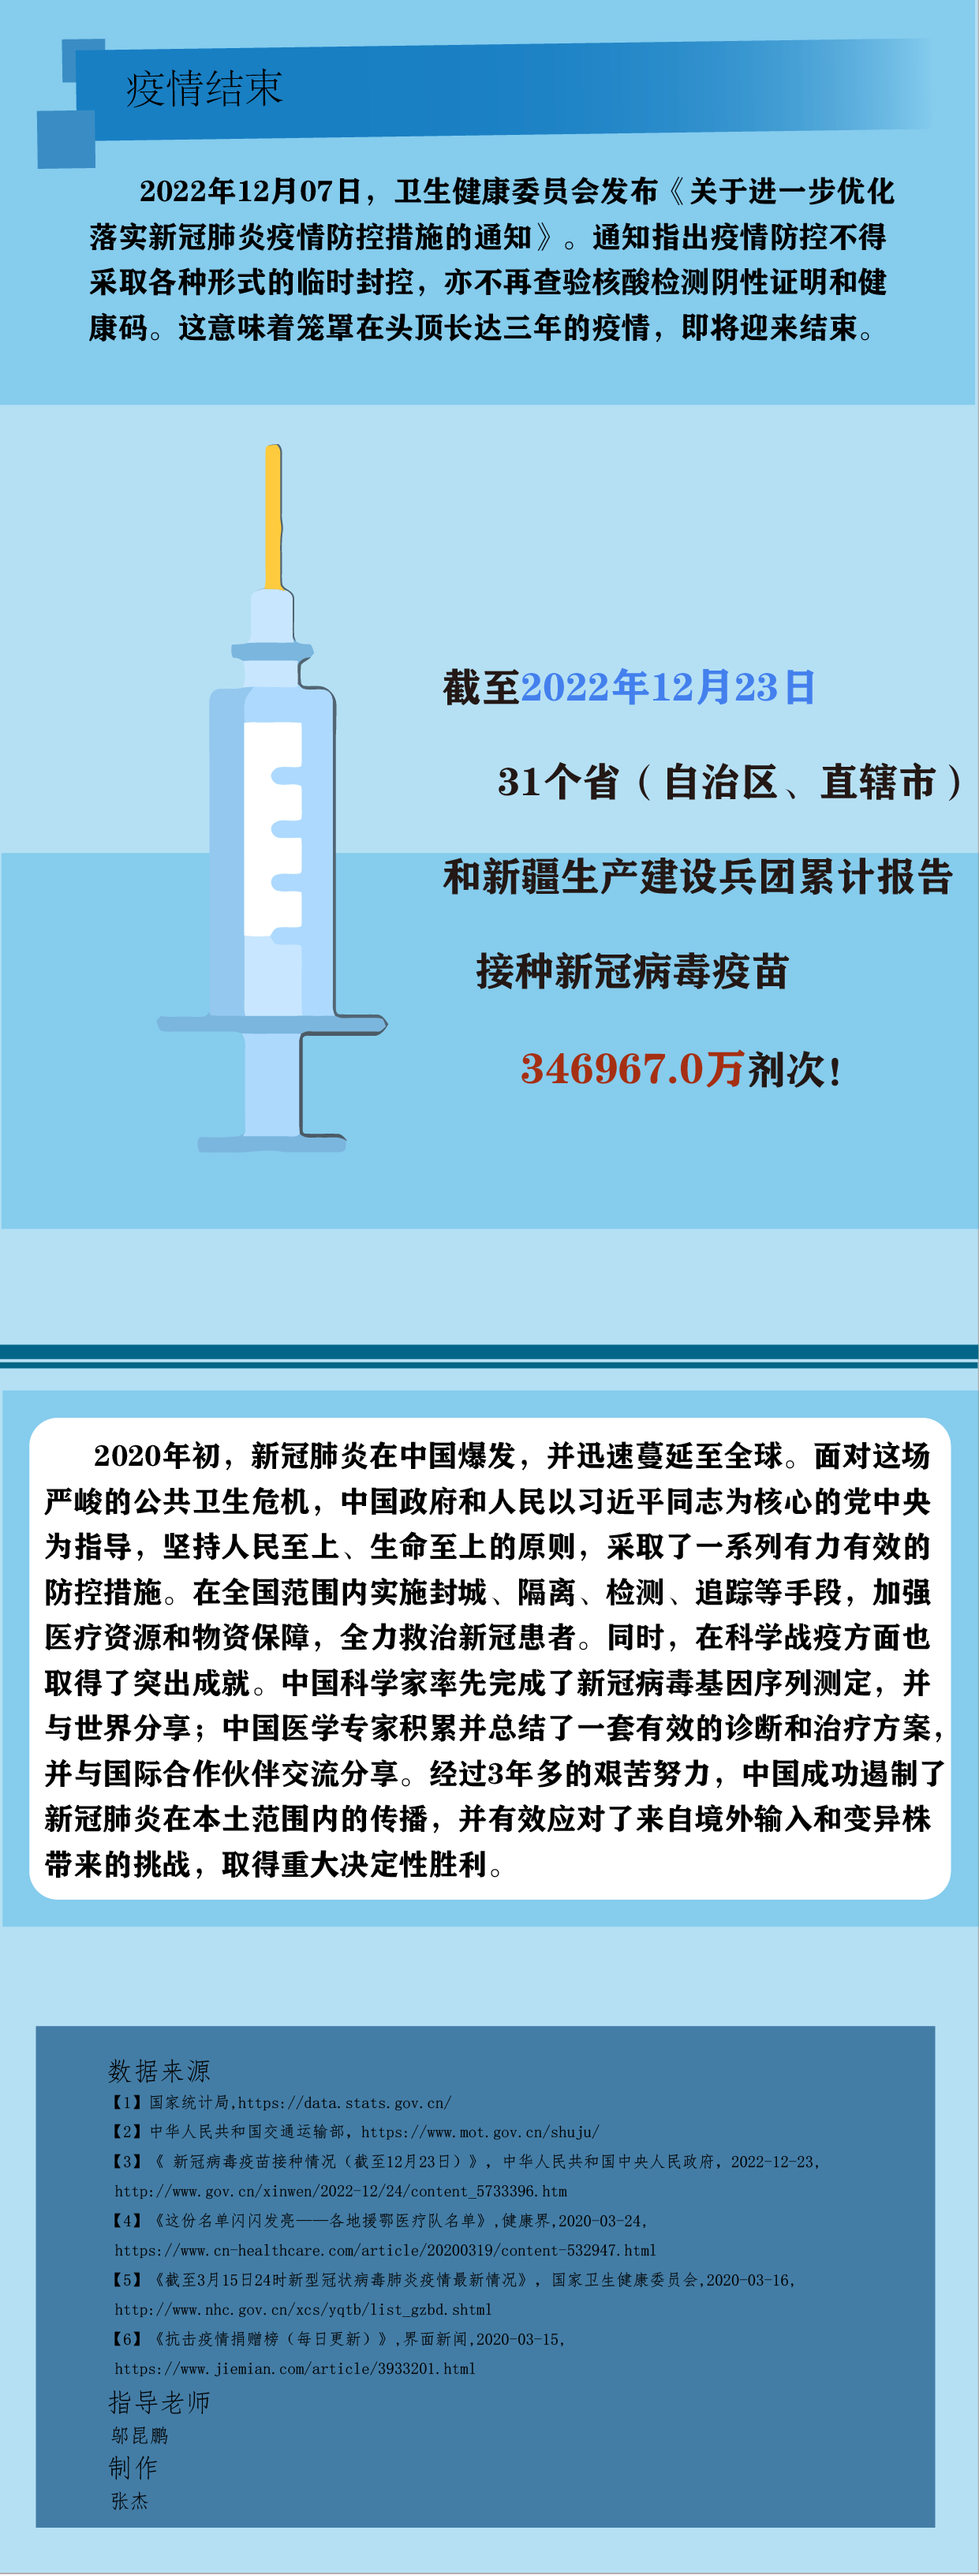
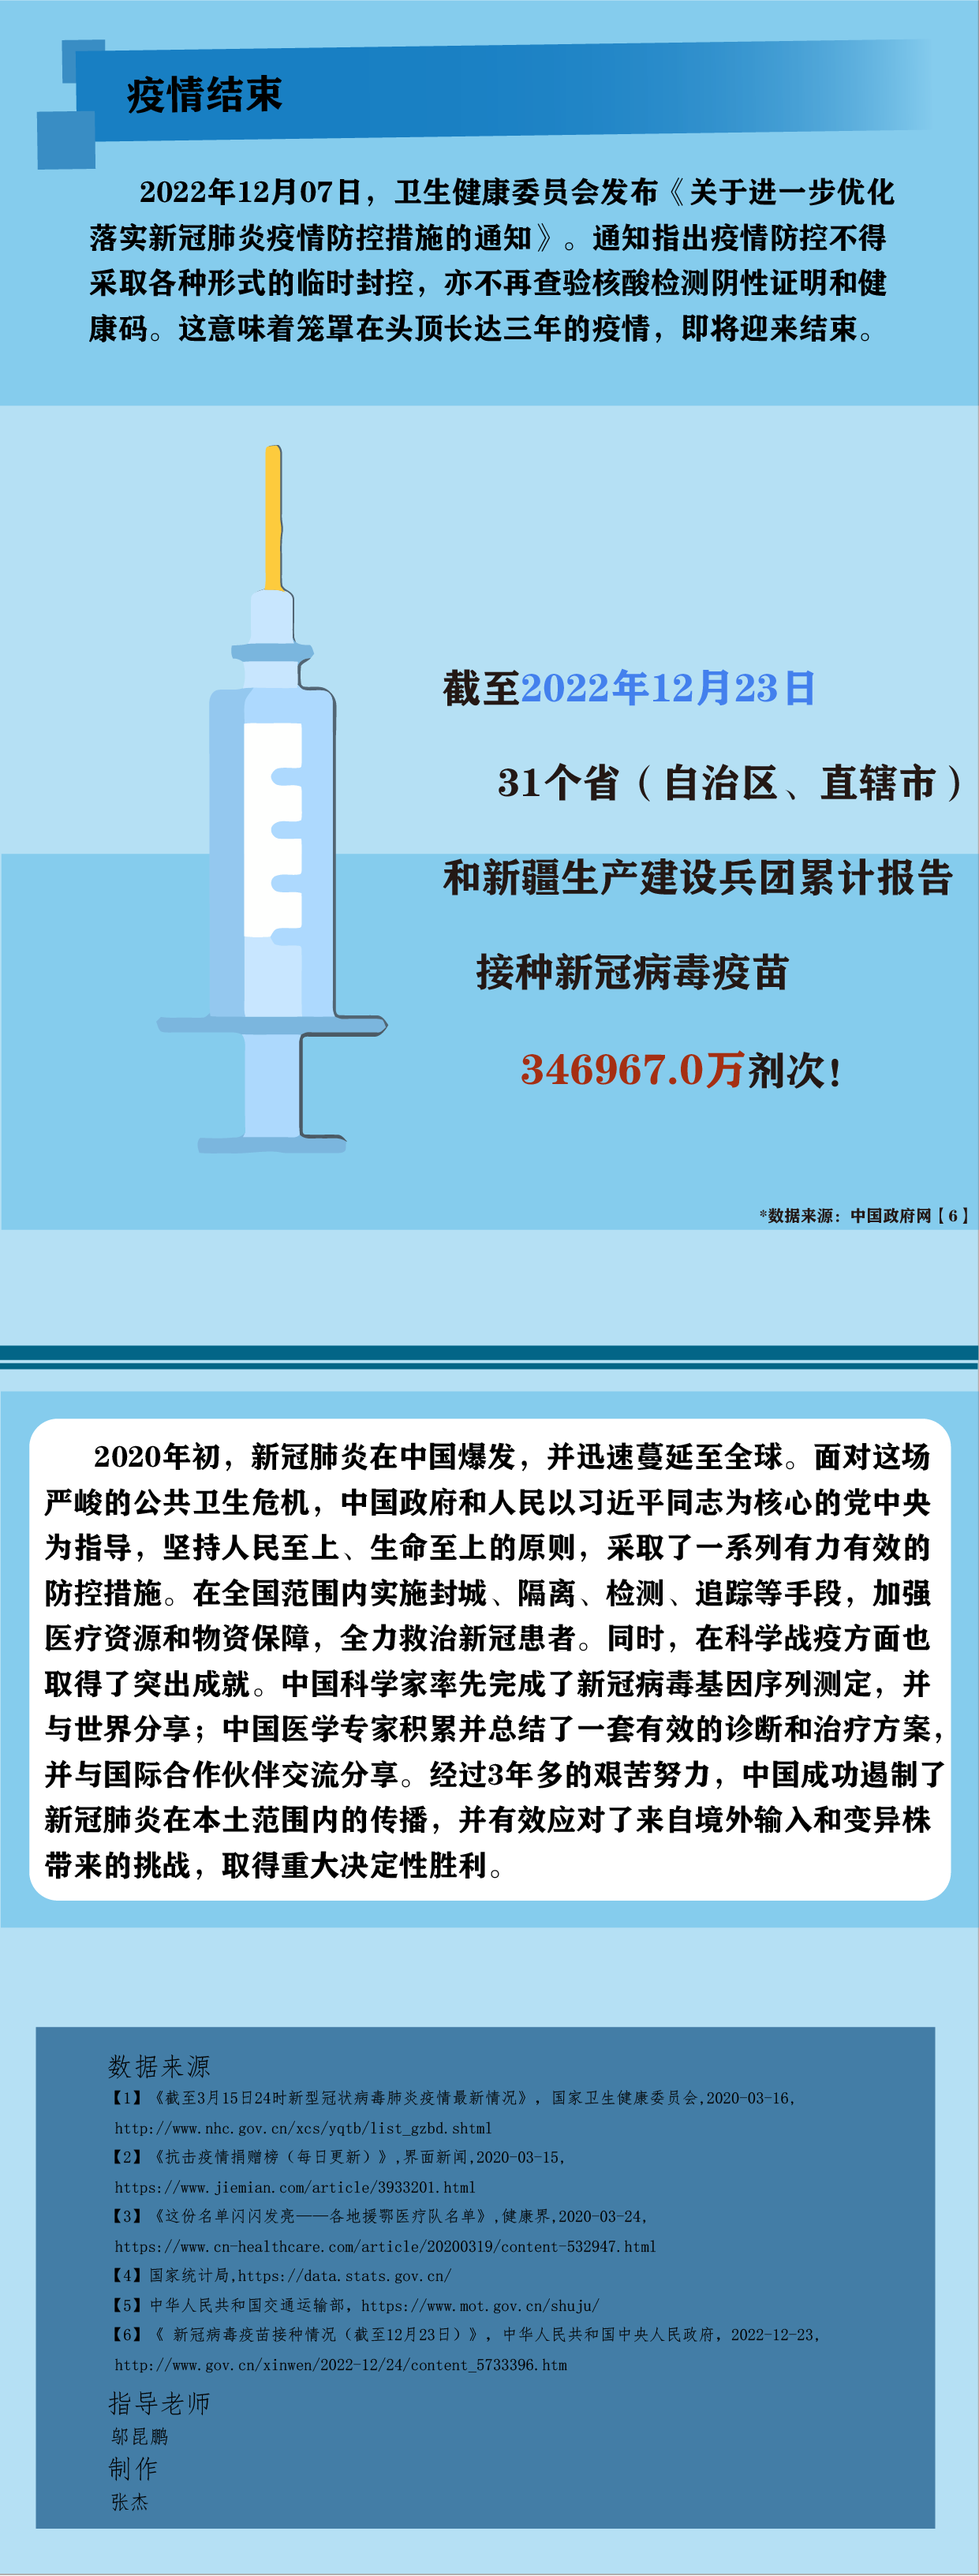
Add files via upload

diff --git a/index.html b/index.html
@@ -16,11 +16,11 @@
 			<div class="main">
 
 				<div class="main-item">
-					<img src="img/首页-01.png" alt="图片不见了！！！">
+					<img src="img/首页-01-01.png" alt="图片不见了！！！">
 				</div>
 				<div class="tubiao">
 					<!-- 为ECharts准备一个具备大小（宽高）的Dom -->
-					<div id="main3" style="width:100%;height:400px;"></div>
+					<div id="main3" style="width:100%;height:300px;margin: 0 25px;"></div>
 					<script type="text/javascript">
 						// 基于准备好的dom，初始化echarts实例
 						var myChart = echarts.init(document.getElementById('main3'));
@@ -46,36 +46,38 @@
 						myChart.setOption(option);
 					</script>
 				</div>
+				<div class="main-item">
+					<img src="img/交通-05-01-05.png" alt="图片不见了！！！">
+				</div>
 
 				<div class="main-item">
 					<img src="img/中页-02-01.png" alt="图片不见了！！！">
 				</div>
 
-				<section name="preview-7" style="-webkit-touch-callout:none;user-select:text;overflow: hidden;text-align: center;line-height: 0;">
-					<section powered-by="e2.cool" label="404.tech_svg_E2编辑器_无限图片滑动" copyright="E2.COOL 新媒体编辑器版权所有 模板禁止任何个人、机构、第三方编辑器出于商业目的案例化引用和复用以及二次模板化行为 违者必究" style="width: 100%;display:flex;vertical-align: top;overflow-x: auto;box-sizing: border-box;pointer-events: painted;margin-top: -1px;line-height: 0;">
-						<section style="flex:0 0 400%;display:flex;overflow: hidden;max-width: 400% !important;box-sizing: border-box;">
-							<section style="flex:0 0 25%;display: inline-block;vertical-align: bottom;box-sizing: border-box;">
-								<svg style="background-image: url(&quot;https://img.e2.cool/data/41286/1632227449523675136.png&quot;);background-size: cover;background-repeat: no-repeat;display: inline;line-height: 0;" viewBox="0 0 1080 463">
-								</svg>
-							</section>
-							<section style="flex:0 0 25%;display: inline-block;vertical-align: bottom;box-sizing: border-box;">
-								<svg style="background-image: url(&quot;https://ser1.e2.cool/data/41286/1632227471300497408.png&quot;);background-size: cover;background-repeat: no-repeat;display: inline;line-height: 0;" viewBox="0 0 1080 463">
-								</svg>
-							</section>
-							<section style="flex:0 0 25%;display: inline-block;vertical-align: bottom;box-sizing: border-box;">
-								<svg style="background-image: url(&quot;https://ser1.e2.cool/data/41286/1632227586618691584.png&quot;);background-size: cover;background-repeat: no-repeat;display: inline;line-height: 0;" viewBox="0 0 1080 464">
-								</svg>
-							</section>
-							<section style="flex:0 0 25%;display: inline-block;vertical-align: bottom;box-sizing: border-box;">
-								<svg style="background-image: url(&quot;https://img.e2.cool/data/41286/1632227603811147776.png&quot;);background-size: cover;background-repeat: no-repeat;display: inline;line-height: 0;" viewBox="0 0 1080 463">
-								</svg>
-							</section>
-						</section>
-					</section>
-					<svg powered-by="e2.cool" label="404.tech_svg_E2编辑器_无缝图_深色模式高亮" copyright="E2.COOL 新媒体编辑器版权所有 模板禁止任何个人、机构、第三方编辑器出于商业目的案例化引用和复用以及二次模板化行为 违者必究" style="background-image: url(&quot;https://img.e2.cool/data/41286/1632227645175373824.png&quot;);background-size: 100% auto;background-repeat: no-repeat;display: block;line-height: 0;margin-top: -1px;transform:scale(1)" viewBox="0 0 1080 45">
-					</svg>
-				</section>
-
+				<section name="preview-12" style="-webkit-touch-callout:none;user-select:text;overflow: hidden;text-align: center;line-height: 0;">
+  <section powered-by="e2.cool" label="404.tech_svg_E2编辑器_无限图片滑动" copyright="E2.COOL 新媒体编辑器版权所有 模板禁止任何个人、机构、第三方编辑器出于商业目的案例化引用和复用以及二次模板化行为 违者必究" style="width: 100%;display:flex;vertical-align: top;overflow-x: auto;box-sizing: border-box;pointer-events: painted;margin-top: -1px;line-height: 0;">
+    <section style="flex:0 0 400%;display:flex;overflow: hidden;max-width: 400% !important;box-sizing: border-box;">
+      <section style="flex:0 0 25%;display: inline-block;vertical-align: bottom;box-sizing: border-box;">
+        <svg style="background-image: url(&quot;https://img.e2.cool/data/41286/1632227449523675136.png&quot;);background-size: cover;background-repeat: no-repeat;display: inline;line-height: 0;" viewBox="0 0 1080 463">
+        </svg>
+      </section>
+      <section style="flex:0 0 25%;display: inline-block;vertical-align: bottom;box-sizing: border-box;">
+        <svg style="background-image: url(&quot;https://ser1.e2.cool/data/41286/1632227471300497408.png&quot;);background-size: cover;background-repeat: no-repeat;display: inline;line-height: 0;" viewBox="0 0 1080 463">
+        </svg>
+      </section>
+      <section style="flex:0 0 25%;display: inline-block;vertical-align: bottom;box-sizing: border-box;">
+        <svg style="background-image: url(&quot;https://ser1.e2.cool/data/41286/1632227586618691584.png&quot;);background-size: cover;background-repeat: no-repeat;display: inline;line-height: 0;" viewBox="0 0 1080 464">
+        </svg>
+      </section>
+      <section style="flex:0 0 25%;display: inline-block;vertical-align: bottom;box-sizing: border-box;">
+        <svg style="background-image: url(&quot;https://img.e2.cool/data/41286/1632227603811147776.png&quot;);background-size: cover;background-repeat: no-repeat;display: inline;line-height: 0;" viewBox="0 0 1080 463">
+        </svg>
+      </section>
+    </section>
+  </section>
+  <svg powered-by="e2.cool" label="404.tech_svg_E2编辑器_无缝图_深色模式高亮" copyright="E2.COOL 新媒体编辑器版权所有 模板禁止任何个人、机构、第三方编辑器出于商业目的案例化引用和复用以及二次模板化行为 违者必究" style="background-image: url(&quot;https://img.e2.cool/data/41286/1632250532380811264.png&quot;);background-size: 100% auto;background-repeat: no-repeat;display: block;line-height: 0;margin-top: -1px;transform:scale(1)" viewBox="0 0 1080 91">
+  </svg>
+</section>
 				<div class="main-item">
 					<img src="img/尾页-01.png" alt="图片不见了！！！">
 				</div>

diff --git a/css/style.css b/css/style.css
@@ -53,6 +53,6 @@ body {
 	color: #999;
 	text-align: center;
 }
-.charts{
+.tubiao{
 
 }
